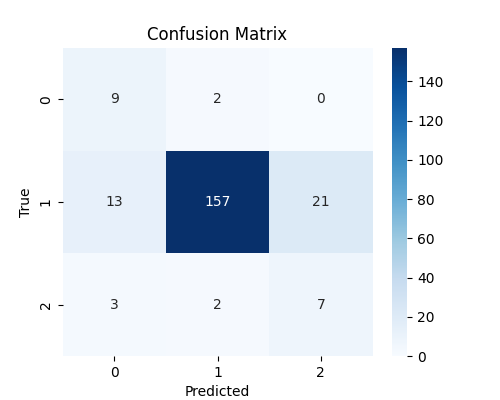
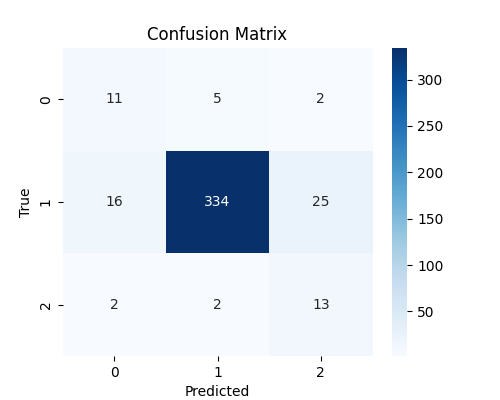
fix: align realtime check evaluation and update training figures

diff --git a/realtime_action_check.py b/realtime_action_check.py
@@ -220,6 +220,7 @@ if __name__ == "__main__":
     history = deque(maxlen=SEQ_LEN)
     last_interval = None
     y_true, y_pred = [], []
+    pending_pred = None  # (pred_timestamp, pred_class)
 
     while True:
         time.sleep(INTERVAL_SEC)
@@ -237,13 +238,41 @@ if __name__ == "__main__":
         if new_rows.empty:
             continue
 
-        for idx, row in new_rows.iterrows():
+        for _, row in new_rows.iterrows():
             fv = [row[c] for c in FEATURE_COLS]
             fv_scaled = scaler.transform([fv])[0]
             history.append(fv_scaled)
 
             # 이전 인터벌 timestamp 업데이트
             last_interval = row['timestamp']
+
+            # 한 구간 지연 평가:
+            # t에서 만든 예측은 t+1 row가 들어왔을 때 row['last_return']로 평가
+            if pending_pred is not None:
+                pred_ts, prev_pred = pending_pred
+                r = row['last_return']
+                if r >= LABEL_THRESHOLD:
+                    true = ACTION_MAP['buy']
+                elif r <= -LABEL_THRESHOLD:
+                    true = ACTION_MAP['sell']
+                else:
+                    true = ACTION_MAP['hold']
+
+                y_true.append(true)
+                y_pred.append(prev_pred)
+
+                acc = accuracy_score(y_true, y_pred)
+                f1 = f1_score(y_true, y_pred, average='macro')
+
+                logging.info(
+                    "[pred@%s eval@%s] Pred=%s True=%s | Acc=%.3f F1=%.3f",
+                    pred_ts,
+                    row['timestamp'],
+                    INV_ACTION_MAP[prev_pred],
+                    INV_ACTION_MAP[true],
+                    acc,
+                    f1
+                )
 
             # SEQ_LEN 이상이면 바로 예측
             if len(history) < SEQ_LEN:
@@ -256,26 +285,5 @@ if __name__ == "__main__":
             with torch.no_grad():
                 pred = model(X).argmax(1).item()
 
-            # 실제 라벨은 이전 인터벌 기준
-            prev_idx = idx - 1
-            if prev_idx < 0:
-                continue
-            prev_row = feat_df.iloc[prev_idx]
-            r = prev_row['last_return']
-            if r >= LABEL_THRESHOLD:
-                true = ACTION_MAP['buy']
-            elif r <= -LABEL_THRESHOLD:
-                true = ACTION_MAP['sell']
-            else:
-                true = ACTION_MAP['hold']
-
-            y_true.append(true)
-            y_pred.append(pred)
-
-            acc = accuracy_score(y_true, y_pred)
-            f1 = f1_score(y_true, y_pred, average='macro')
-
-            logging.info(
-                "[%s] Pred=%s True=%s | Acc=%.3f F1=%.3f",
-                row['timestamp'], INV_ACTION_MAP[pred], INV_ACTION_MAP[true], acc, f1
-            )
+            # 이번 예측은 다음 인터벌에서 평가
+            pending_pred = (row['timestamp'], pred)
